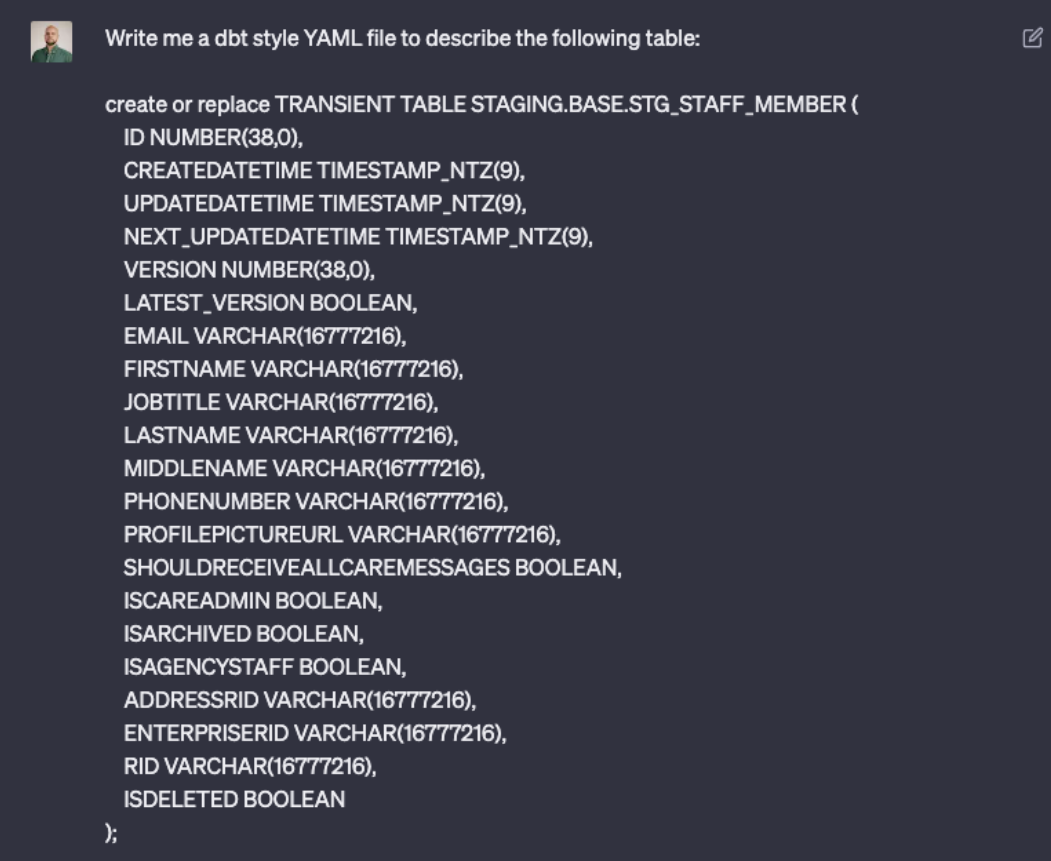
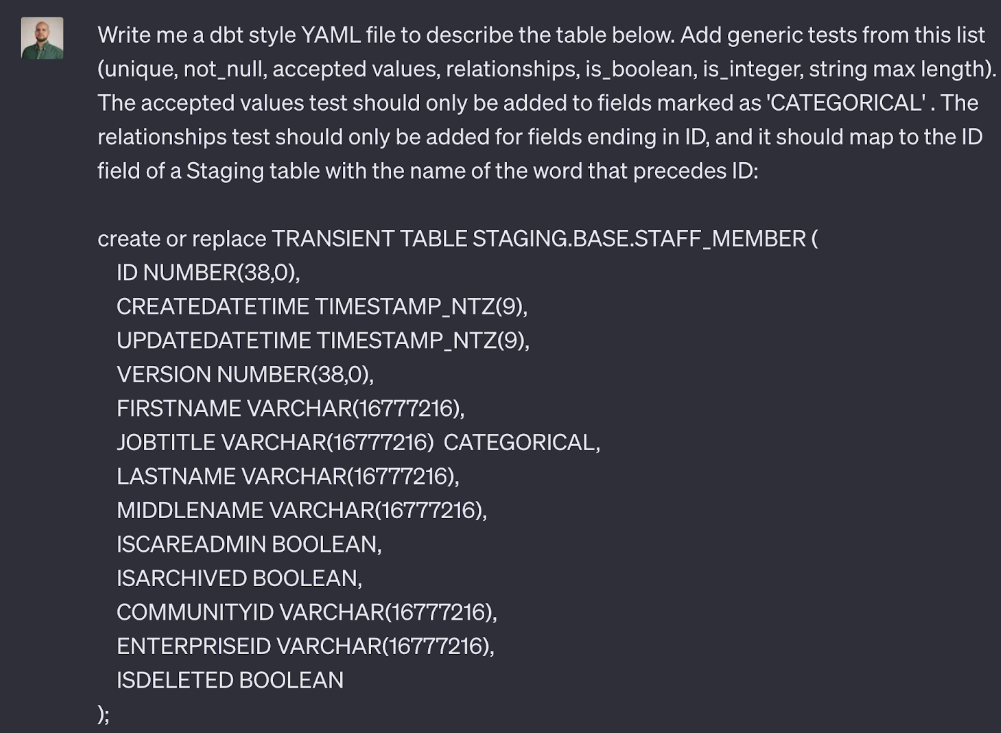
updating screenshots and code

Changed region(s): [[0.0, 0.03, 0.991, 0.9604], [0.0929, 0.9604, 0.1239, 0.9905]]

diff --git a/website/blog/2023-07-17-GPT-and-dbt-test.md b/website/blog/2023-07-17-GPT-and-dbt-test.md
@@ -28,27 +28,19 @@ ChatGPT can only infer so much, so tables with names and fields that resemble en
 
 ```sql
 create or replace TRANSIENT TABLE STAGING.BASE.STG_STAFF_MEMBER (
-
-CREATEDATETIME TIMESTAMP_NTZ(9),
-
-NEXT_UPDATEDATETIME TIMESTAMP_NTZ(9),
-
-LATEST_VERSION BOOLEAN,
-
-FIRSTNAME VARCHAR(16777216),
-
-LASTNAME VARCHAR(16777216),
-
-PHONENUMBER VARCHAR(16777216),
-
-SHOULDRECEIVEALLCAREMESSAGES BOOLEAN,
-
-ISARCHIVED BOOLEAN,
-
-ADDRESSRID VARCHAR(16777216),
-
-RID VARCHAR(16777216)
-
+      ID NUMBER(38,0),
+      CREATEDATETIME TIMESTAMP_NTZ(9),
+      UPDATEDATETIME TIMESTAMP_NTZ(9),
+      VERSION NUMBER(38,0),
+      FIRSTNAME VARCHAR(16777216),
+      JOBTITLE VARCHAR(16777216),
+      LASTNAME VARCHAR(16777216),
+      MIDDLENAME VARCHAR(16777216),
+      ISCAREADMIN BOOLEAN,
+      ISARCHIVED BOOLEAN,
+      ADDRESSID VARCHAR(16777216),
+      ENTERPRISEID VARCHAR(16777216),
+      ISDELETED BOOLEAN
 );
 
 ```
@@ -63,79 +55,69 @@ We all know how ChatGPT can digest very complex prompts, but as this is a tool f
 
 Opening ChatGPT with GPT4, my first prompt is usually along these lines:
 
-![Alt text](../static/img/blog/2023-07-17-GPT-and-dbt-test/image3.png)
+![Alt text](../static/img/blog/2023-07-17-GPT-and-dbt-test/image1.png)
 And the output of this simple prompt is nothing short of amazing:
 
 ```yaml
 version: 2
 
 models:
-  - name: stg_staff_member
-    description: This is a staging table for staff member data.
-    columns:
-      - name: ID
-        description: Unique identifier for the staff member
-        tests:
-          - not_null
-          - unique
-      - name: CREATEDATETIME
-        description: The date and time the staff member record was created
-        tests:
-          - not_null
-      - name: UPDATEDATETIME
-        description: The date and time the staff member record was last updated
-      - name: NEXT_UPDATEDATETIME
-        description: The next date and time the staff member record will be updated
-      - name: VERSION
-        description: Version number of the staff member record
-        tests:
-          - not_null
-      - name: LATEST_VERSION
-        description: Flag to indicate if the record is the latest version
-        tests:
-          - not_null
-      - name: EMAIL
-        description: Email address of the staff member
-        tests:
-          - not_null
-      - name: FIRSTNAME
-        description: First name of the staff member
-        tests:
-          - not_null
+  - name: STAFF_MEMBER
+    description: This table contains information about the staff members.
+    columns:
+      - name: ID
+        description: The unique identifier for the staff member.
+        tests:
+          - unique
+          - not_null
+      - name: CREATEDATETIME
+        description: The timestamp when the record was created.
+        tests:
+          - not_null
+      - name: UPDATEDATETIME
+        description: The timestamp when the record was last updated.
+      - name: VERSION
+        description: Version number of the record.
+      - name: FIRSTNAME
+        description: The first name of the staff member.
+        tests:
+          - not_null
       - name: JOBTITLE
-        description: Job title of the staff member
-      - name: LASTNAME
-        description: Last name of the staff member
-        tests:
-          - not_null - name: MIDDLENAME
-        description: Middle name of the staff member
-      - name: PHONENUMBER
-        description: Phone number of the staff member
-      - name: PROFILEPICTUREURL
-        description: URL of the staff member's profile picture
-      - name: SHOULDRECEIVEALLCAREMESSAGES
-        description: Flag to indicate if the staff member should receive all care messages
-      - name: ISARCHIVED
-        description: Flag to indicate if the staff member is archived
-      - name: ISCAREADMIN
-        description: Flag to indicate if the staff member is a care admin
-      - name: ISAGENCYSTAFF
-        description: Flag to indicate if the staff member is a agency staff
-      - name: ADDRESSRID
-        description: Address RID of the staff member
-      - name: ENTERPRISERID
-        description: Enterprise RID of the staff member
-      - name: RID
-        description: RID of the staff member
-      - name: ISDELETED
-        description: Flag to indicate if the staff member record is deleted
+        description: The job title of the staff member.
+        tests:
+          - not_null
+      - name: LASTNAME
+        description: The last name of the staff member.
+        tests:
+          - not_null
+      - name: MIDDLENAME
+        description: The middle name of the staff member.
+      - name: ISCARADMIN
+        description: Boolean value indicating if the staff member is a care administrator.
+        tests:
+          - accepted_values:
+              values: ['true', 'false']
+      - name: ISARCHIVED
+        description: Boolean value indicating if the staff member record is archived.
+        tests:
+          - accepted_values:
+              values: ['true', 'false']
+      - name: COMMUNITYID
+        description: Identifier for the community of the staff member.
+      - name: ENTERPRISEID
+        description: Identifier for the enterprise of the staff member.
+      - name: ISDELETED
+        description: Boolean value indicating if the staff member record is deleted.
+        tests:
+          - accepted_values:
+              values: ['true', 'false']
 ```
 
 Back in my day (5 months ago), ChatGPT with GPT 3.5 didn’t have much context on what a dbt-style YAML file was, so the result was a funky, non-dbt YAML format. If you are using GPT 3.5 and the results you get from the first prompt don’t compile in dbt, I would recommend an extra step I took which is to pass your understanding of what a dbt-style YAML file is. You can do this simply by copy-pasting a piece of a publicly available YAML file like [this one from the Jaffle Shop example](https://github.com/dbt-labs/jaffle_shop/blob/main/models/schema.yml), or a piece of YAML from your own code base.
 
 A prompt for it would look something like:
 
-![example prompt](../static/img/blog/2023-07-17-GPT-and-dbt-test/image5.png)
+![example prompt](../static/img/blog/2023-07-17-GPT-and-dbt-test/image2.png)
 
 ## Specify details on generic tests in your prompts
 
@@ -150,7 +132,7 @@ Accepted_values and relationships are slightly trickier but the model can be adj
 
 One way of doing this is with a prompt like this:
 
-![example prompt](../static/img/blog/2023-07-17-GPT-and-dbt-test/image4.png)
+![example prompt](../static/img/blog/2023-07-17-GPT-and-dbt-test/image3.png)
 
 Which results in the following output:
 
@@ -158,90 +140,65 @@ Which results in the following output:
 version: 2
 
 models:
-  - name: stg_staff_member
-    description: "This is the staging table for staff members."
-    columns:
-      - name: id
-        description: "Unique Identifier for each staff member."
-        tests:
-          - unique
-          - not_null
-      - name: createdatetime
-        description: "Timestamp when the staff member record was created."
-      - name: updatedatetime
-        description: "Timestamp when the staff member record was last updated."
-      - name: next_updatedatetime
-        description: "Timestamp for the next scheduled update for the staff member record."
-      - name: version
-        description: "Version number for the staff member record."
-        tests:
-          - not_null
-      - name: latest_version
-        description: "Boolean indicating if this is the latest version of the staff member record."
-        tests:
-          - not_null
-      - name: email
-        description: "Email address of the staff member."
-        tests:
-          - not_null
-          - unique
-      - name: firstname
-        description: "First name of the staff member."
-        tests:
-          - not_null
-      - name: jobtitle
-        description: "Job title of the staff member."
-        tests:
-          - not_null
-          - accepted_values:
-              values: ['Job Title 1', 'Job Title 2', 'Job Title 3']  # Update this with your categorical job titles
-      - name: lastname
-        description: "Last name of the staff member."
-        tests:
-          - not_null
-      - name: middlename
-        description: "Middle name of the staff member."
-      - name: phonenumber
-        description: "Phone number of the staff member."
-      - name: profilepictureurl
-        description: "URL of the staff member's profile picture."
-      - name: shouldreceiveallcaremessages
-        description: "Boolean indicating if the staff member should receive all care messages."
-        tests:
-          - not_null
-      - name: iscareadmin
-        description: "Boolean indicating if the staff member is a care admin."
-        tests:
-          - not_null
-      - name: isarchived
-        description: "Boolean indicating if the staff member is archived."
-        tests:
-          - not_null
-      - name: isagencystaff
-        description: "Boolean indicating if the staff member is an agency staff member."
-        tests:
-          - not_null
-      - name: addressrid
-        description: "Foreign key referencing the address of the staff member."
-        tests:
-          - relationships:
-              to: staging.base.stg_address  # Update this with your staging address table
-              field: rid
-      - name: enterpriserid
-        description: "Foreign key referencing the enterprise of the staff member."
-        tests:
-          - relationships:
-              to: staging.base.stg_enterprise  # Update this with your staging enterprise table
-              field: rid
-      - name: rid
-        description: "Unique Identifier for the record."
-        tests:
-          - unique
-          - not_null
-      - name: isdeleted
-        description: "Boolean indicating if the staff member record is deleted."
-        tests:
-          - not_null
+  - name: STAFF_MEMBER
+    description: This table contains information about the staff members.
+    columns:
+      - name: ID
+        description: The unique identifier for the staff member.
+        tests:
+          - unique
+          - not_null
+      - name: CREATEDATETIME
+        description: The timestamp when the record was created.
+        tests:
+          - not_null
+      - name: UPDATEDATETIME
+        description: The timestamp when the record was last updated.
+      - name: VERSION
+        description: Version number of the record.
+      - name: FIRSTNAME
+        description: The first name of the staff member.
+        tests:
+          - not_null
+      - name: JOBTITLE
+        description: The job title of the staff member. This is a categorical field.
+        tests:
+          - not_null
+          - accepted_values:
+              values: ['Job Title 1', 'Job Title 2', 'Job Title 3'] # replace these with actual job titles
+      - name: LASTNAME
+        description: The last name of the staff member.
+        tests:
+          - not_null
+      - name: MIDDLENAME
+        description: The middle name of the staff member.
+      - name: ISCARADMIN
+        description: Boolean value indicating if the staff member is a care administrator.
+        tests:
+          - accepted_values:
+              values: ['true', 'false']
+      - name: ISARCHIVED
+        description: Boolean value indicating if the staff member record is archived.
+        tests:
+          - accepted_values:
+              values: ['true', 'false']
+      - name: COMMUNITYID
+        description: Identifier for the community of the staff member.
+        tests:
+          - relationships:
+              to: STAGING.COMMUNITY.ID # replace with actual reference table
+              field: ID
+      - name: ENTERPRISEID
+        description: Identifier for the enterprise of the staff member.
+        tests:
+          - relationships:
+              to: STAGING.ENTERPRISE.ID # replace with actual reference table
+              field: ID
+      - name: ISDELETED
+        description: Boolean value indicating if the staff member record is deleted.
+        tests:
+          - accepted_values:
+              values: ['true', 'false']
 ```
 
 Even though it doesn’t magically guess the categories of your variables or your relationships, it is definitely helpful to have some placeholders in the right places.
